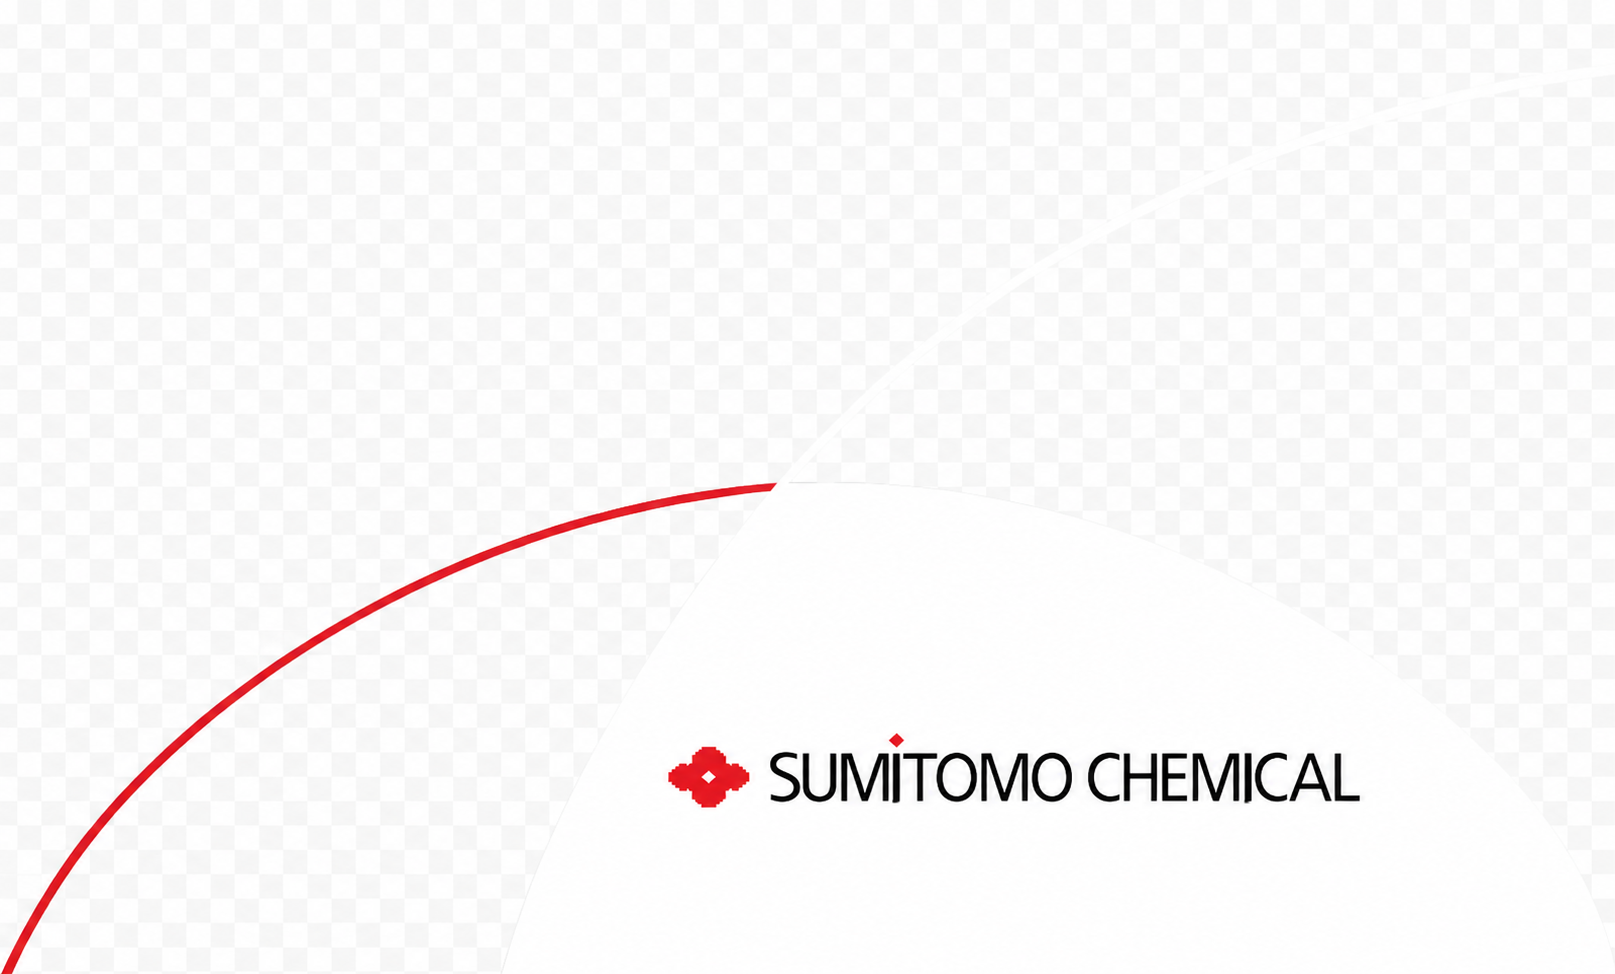
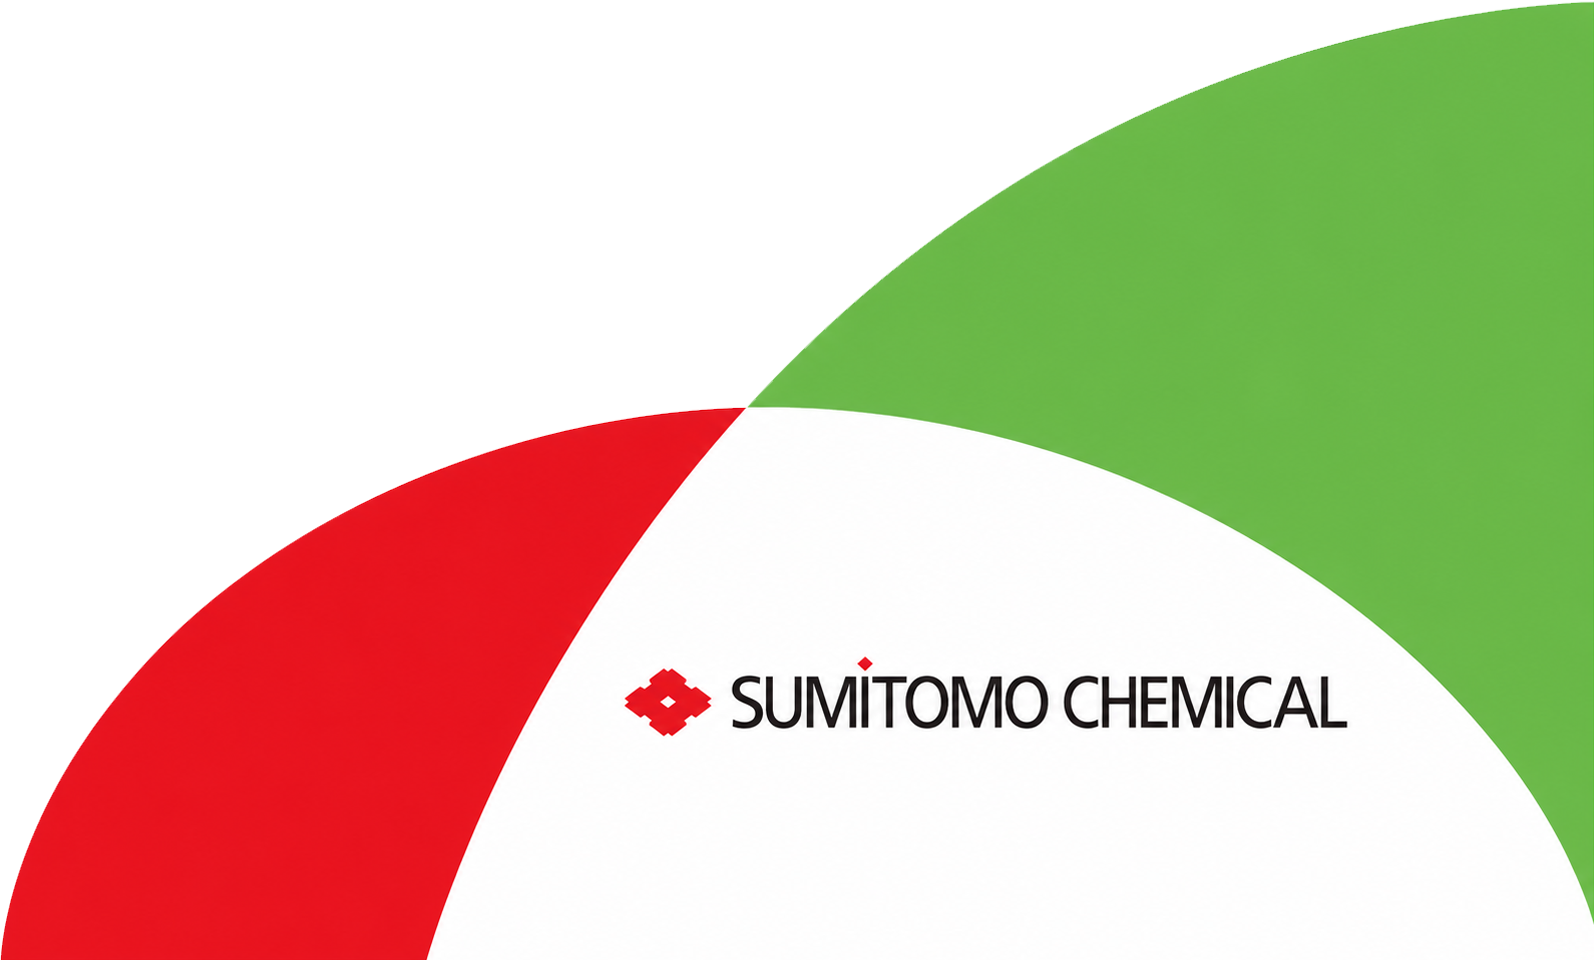
Fix Sumitomo map corner signature

diff --git a/app/globals.css b/app/globals.css
@@ -151,7 +151,7 @@ body:has(.kiosk-rotation-stage.is-rotated) {
 .kiosk-rotation-stage.is-rotated .rotation-button { color: #e9fbff; background: rgba(34, 167, 214, .26); }
 .kiosk-rotation-stage.is-rotated .rotation-button span { display: none; }
 .kiosk-rotation-stage.is-rotated .rotation-button { width: 56px; padding: 0; }
-.kiosk-rotation-stage.is-rotated .map-corner-signature { top: 0; right: 0; bottom: auto; width: clamp(200px, 20vw, 300px); max-width: 32vw; opacity: .94; }
+.kiosk-rotation-stage.is-rotated .map-corner-signature { top: auto; right: 0; bottom: 0; left: auto; width: clamp(200px, 20vw, 300px); max-width: 32vw; opacity: .94; }
 
 .map-workspace { position: relative; min-height: 0; overflow: hidden; background: radial-gradient(circle at 52% 40%, #0d2940 0, #071725 48%, #040d17 100%); }
 .map-workspace::before { content: ""; position: absolute; inset: 0; z-index: 0; opacity: .18; background-image: radial-gradient(circle, #6eabc5 1px, transparent 1px); background-size: 28px 28px; mask-image: linear-gradient(to bottom, black, transparent 88%); }
